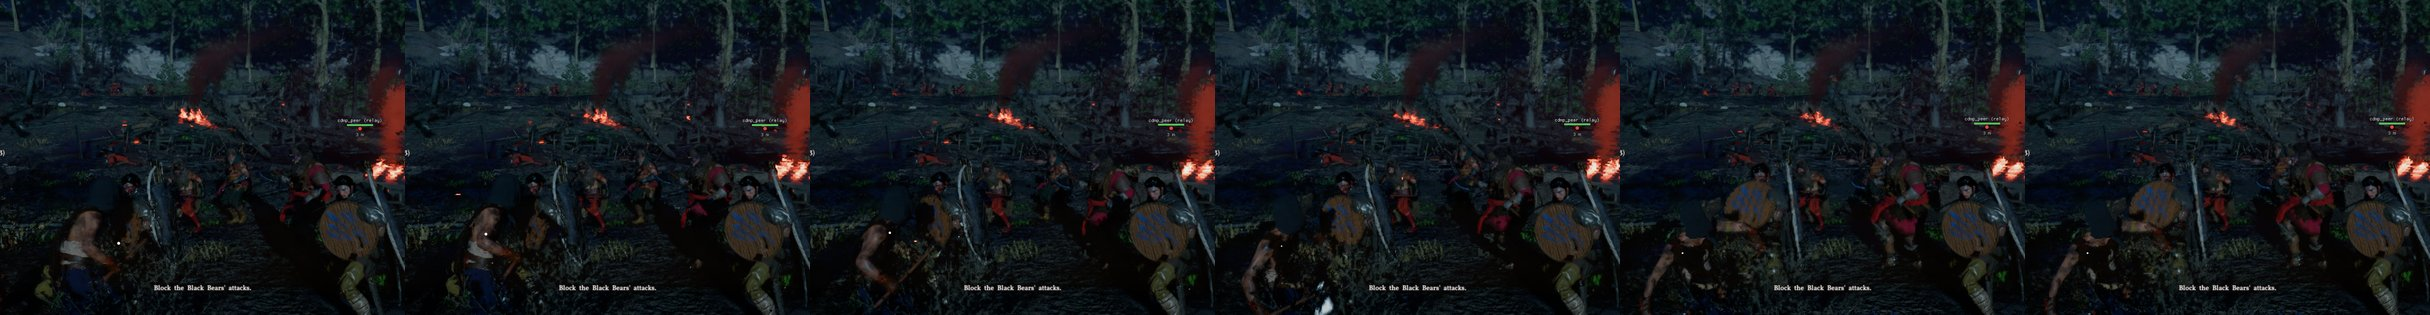
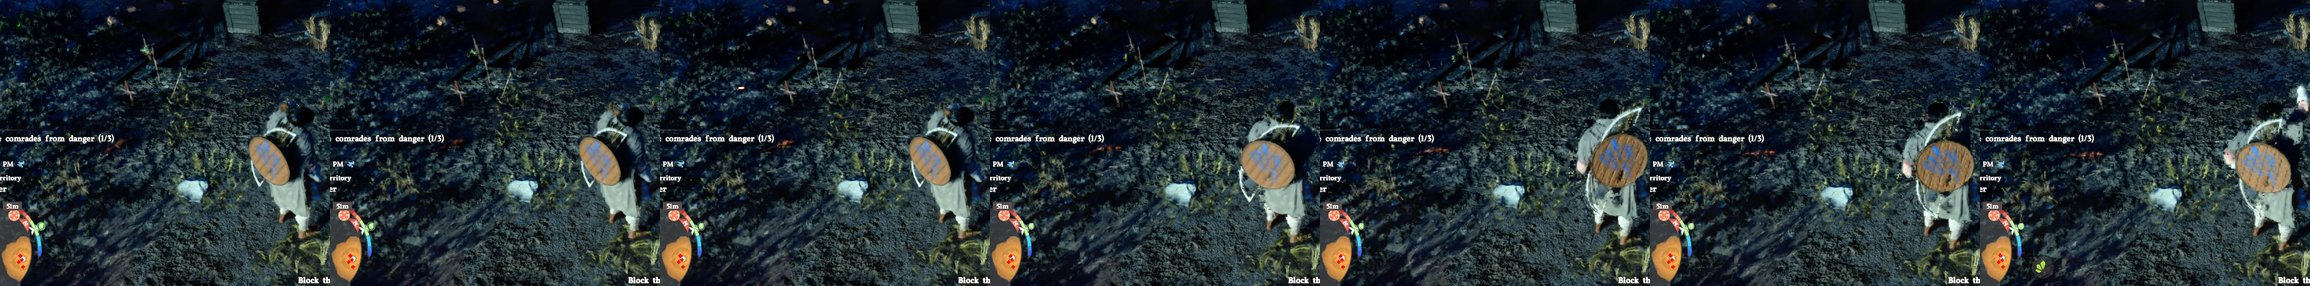
docs(measurements): light attack isolated on quiet ground
Agent-Machine: chise
Agent-Resume: claude --resume cffbe983-f1b9-48e8-814e-f0d66af59456

diff --git a/measurements/2026-11-17-light-attack.md b/measurements/2026-11-17-light-attack.md
@@ -1,0 +1,17 @@
+# Light attack, isolated
+
+Measured on 2026-11-17 in quest "In Ashes" at the checkpoint near (-9960.2, 618.7, -2897.6), with no character within
+3.9 m and health constant at 300. Each `press rb 0.1 0` was preceded and followed by nine or more seconds without input.
+
+The idle player emits StartAction `B77A7FDD / DF773D35` about every 1.3 s. Each light attack press produced, in order,
+`DE17B004 / DF773D35`, then `BDB85277 / DF773D35` 1.8 s later, then `041E61FB / DF773D35` 1.3 s after that, and the
+idle action resumed. The player moved about 2 m forward on the first of the three. Three presses gave this sequence
+three times.
+
+The first press after a revive, with the weapon stowed, gave `8F384208 / 26107D3C` and `2C36F9CE / 26107D3C` instead.
+`450ADC56` followed one later press and one heavy attack press and is not identified.
+
+`light-attack-burst.jpg` holds seven frames over 0.8 s from the press: the shield arm comes round in the last three.
+
+`prove_attack` reported these presses as proven, but its idle window takes in earlier attacks, so its list of new
+hashes was not what identified the action; the timeline from `start_actions` was.
